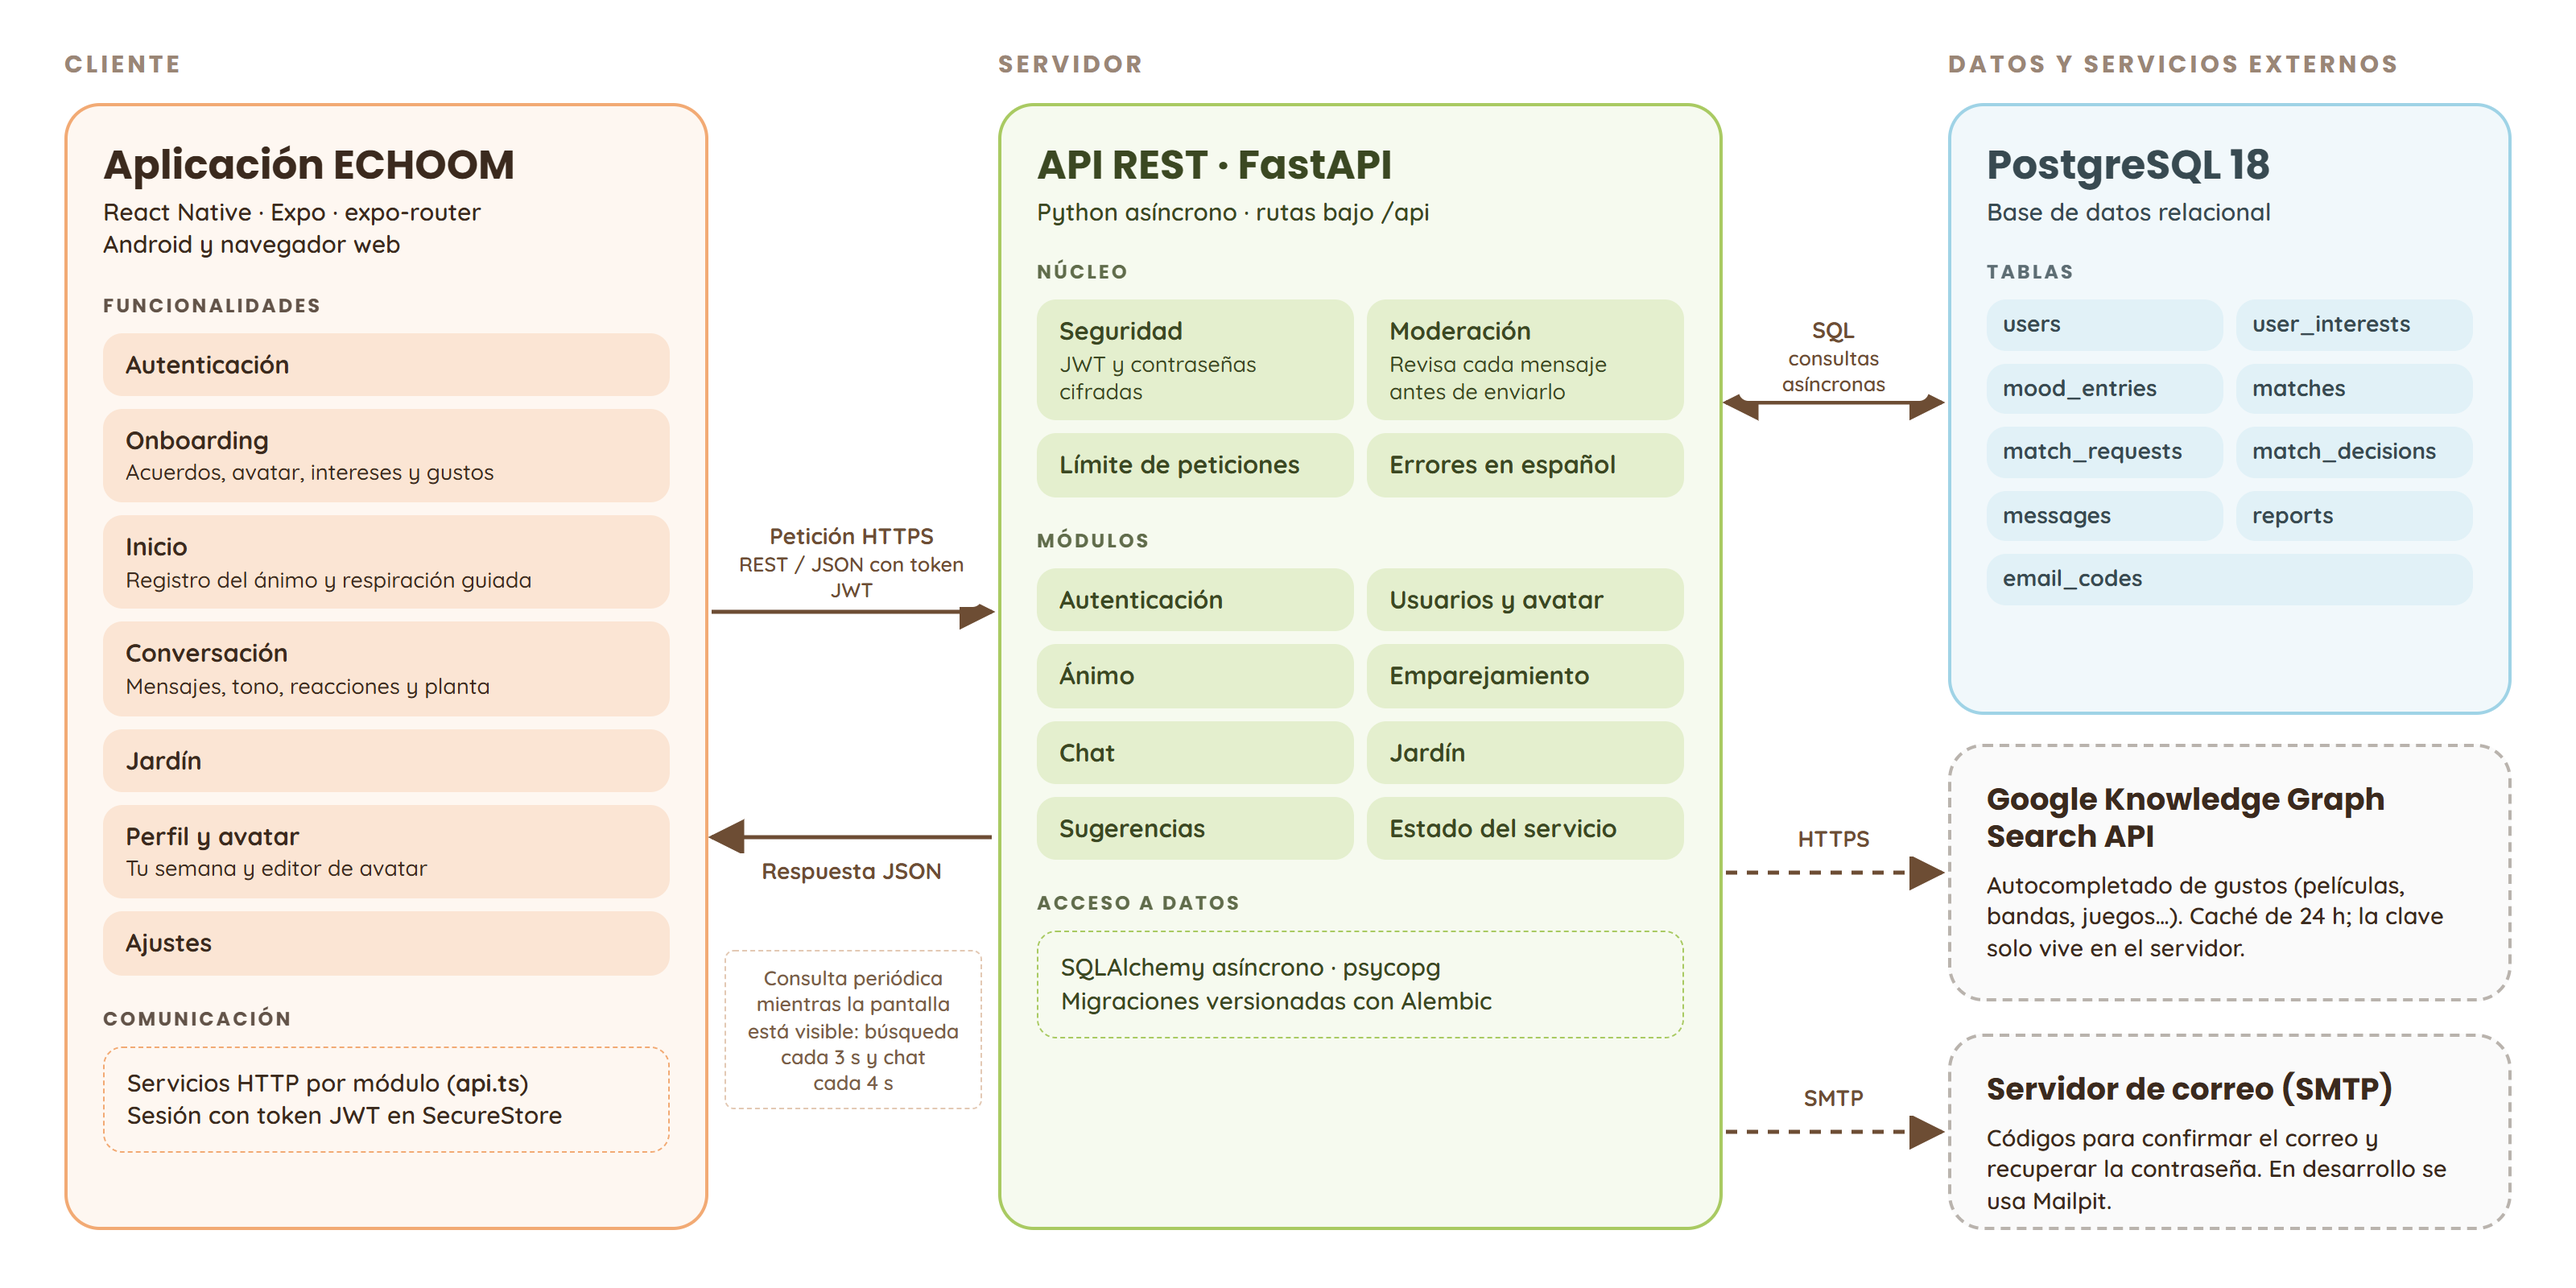
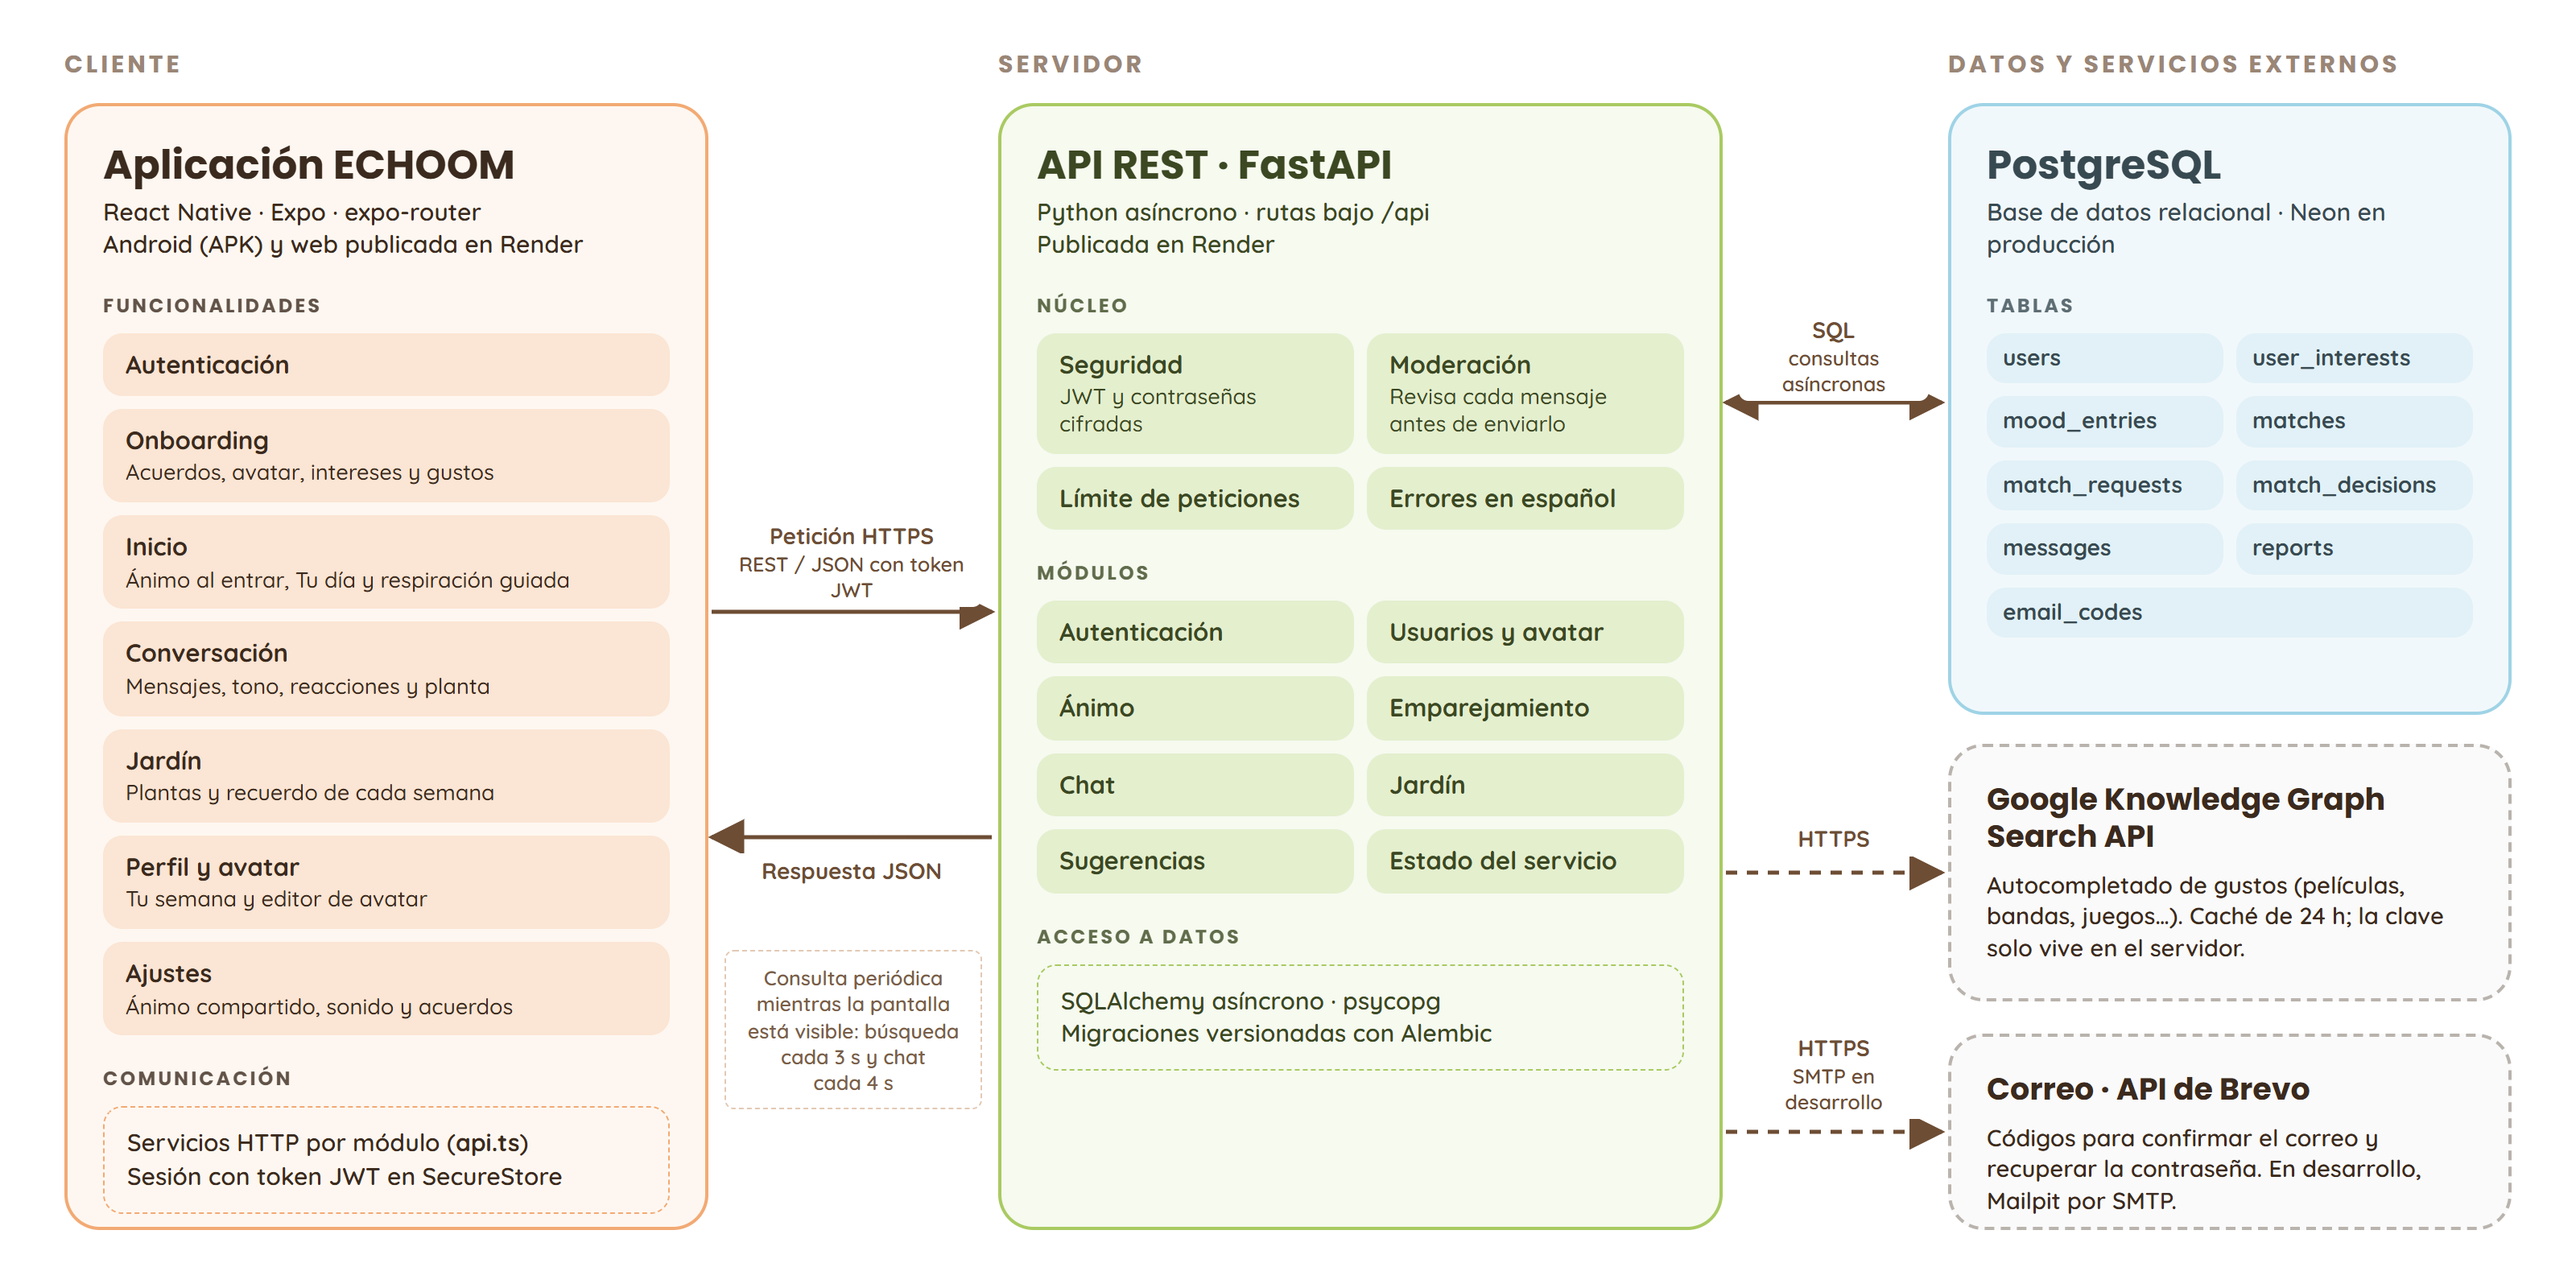
xcz

diff --git a/docs/figures/architecture.html b/docs/figures/architecture.html
@@ -51,16 +51,16 @@
 
   <div class="box client">
     <h2>Aplicación ECHOOM</h2>
-    <div class="sub">React Native · Expo · expo-router<br>Android y navegador web</div>
+    <div class="sub">React Native · Expo · expo-router<br>Android (APK) y web publicada en Render</div>
     <div class="tag">FUNCIONALIDADES</div>
     <div class="grid">
       <div class="chip">Autenticación</div>
       <div class="chip">Onboarding<small>Acuerdos, avatar, intereses y gustos</small></div>
-      <div class="chip">Inicio<small>Registro del ánimo y respiración guiada</small></div>
+      <div class="chip">Inicio<small>Ánimo al entrar, Tu día y respiración guiada</small></div>
       <div class="chip">Conversación<small>Mensajes, tono, reacciones y planta</small></div>
-      <div class="chip">Jardín</div>
+      <div class="chip">Jardín<small>Plantas y recuerdo de cada semana</small></div>
       <div class="chip">Perfil y avatar<small>Tu semana y editor de avatar</small></div>
-      <div class="chip">Ajustes</div>
+      <div class="chip">Ajustes<small>Ánimo compartido, sonido y acuerdos</small></div>
     </div>
     <div class="tag">COMUNICACIÓN</div>
     <div class="band">Servicios HTTP por módulo (<b>api.ts</b>)<br>Sesión con token JWT en SecureStore</div>
@@ -68,7 +68,7 @@
 
   <div class="box server">
     <h2>API REST · FastAPI</h2>
-    <div class="sub">Python asíncrono · rutas bajo /api</div>
+    <div class="sub">Python asíncrono · rutas bajo /api<br>Publicada en Render</div>
     <div class="tag">NÚCLEO</div>
     <div class="grid" style="grid-template-columns:1fr 1fr">
       <div class="chip">Seguridad<small>JWT y contraseñas cifradas</small></div>
@@ -92,8 +92,8 @@
   </div>
 
   <div class="box db">
-    <h2>PostgreSQL 18</h2>
-    <div class="sub">Base de datos relacional</div>
+    <h2>PostgreSQL</h2>
+    <div class="sub">Base de datos relacional · Neon en producción</div>
     <div class="tag">TABLAS</div>
     <div class="grid" style="grid-template-columns:1fr 1fr">
       <div class="chip">users</div>
@@ -114,8 +114,8 @@
   </div>
 
   <div class="box ext" style="top:642px;height:122px">
-    <h2>Servidor de correo (SMTP)</h2>
-    <div class="sub" style="margin-top:8px">Códigos para confirmar el correo y recuperar la contraseña. En desarrollo se usa Mailpit.</div>
+    <h2>Correo · API de Brevo</h2>
+    <div class="sub" style="margin-top:8px">Códigos para confirmar el correo y recuperar la contraseña. En desarrollo, Mailpit por SMTP.</div>
   </div>
 
   <svg width="1600" height="800" style="position:absolute;left:0;top:0;pointer-events:none">
@@ -138,7 +138,7 @@
   <div class="label" style="left:450px;top:590px;width:160px;font-weight:600;font-size:12.5px;color:#7A5E48;border:1.5px dashed #E3C9B4;padding:8px">Consulta periódica mientras la pantalla está visible: búsqueda cada&nbsp;3&nbsp;s y chat cada&nbsp;4&nbsp;s</div>
   <div class="label" style="left:1080px;top:194px;width:118px">SQL<small>consultas asíncronas</small></div>
   <div class="label" style="left:1080px;top:510px;width:118px">HTTPS</div>
-  <div class="label" style="left:1080px;top:671px;width:118px">SMTP</div>
+  <div class="label" style="left:1080px;top:640px;width:118px">HTTPS<small>SMTP en desarrollo</small></div>
 </div>
 </body>
 </html>

diff --git a/docs/decisiones_de_diseno.md b/docs/decisiones_de_diseno.md
@@ -35,7 +35,7 @@ Siguiendo a Vargas Márquez et al. (2021), en la etapa de idear se generan mucha
 | ...sostener un vínculo esporádico en el tiempo? | Decisión privada en el día 7 (con 3 días de gracia). Si ambos quieren seguir, la planta florece y la conversación sigue abierta en "Siguen floreciendo". | POV: "vínculos genuinos". Regla del Pico-Final: se cuida el cierre de la semana con una pantalla propia (Yablonski, 2020). | `decisionCard`, `outcomeScreen`, Jardín. |
 | ...evitar métricas públicas de comparación? | No hay likes, seguidores, contadores ni rankings. El jardín muestra plantas, no números. | Factor 4 del Capítulo 3; Limitaciones del alcance (sin métricas de popularidad). | Todo el sistema. |
 | ...medir el éxito en bienestar y no en uso? | Registro diario del ánimo y una vista privada "Tu semana" en el Perfil. No hay rachas ni notificaciones que empujen al uso. | Feng et al. (2026): la soledad se asocia al uso problemático (r = 0,29), no al tiempo de uso. Monitorear la propia emoción como paso previo a regularla (Gross, 1998). Los datos sirven para la prueba piloto (objetivo específico 4). | Inicio → "¿Cómo te sientes hoy?"; Perfil → "Tu semana". |
-| ...que recibir un mensaje sea un pequeño momento significativo? | Respuestas empáticas al ánimo registrado y, si el ánimo es bajo ("Fatal" o "Mal"), se abre **una pantalla de respiración guiada** antes de seguir: 3 respiraciones lentas (inhalar 4 s y exhalar 6 s, unos 30 s), con un círculo en un tono claro del color de esa emoción que crece al inhalar y se encoge al exhalar, y un halo detrás que respira con más amplitud. La cara de la emoción, en el centro, **respira con la persona**: cierra los ojos, se estira al inhalar y sopla con la boca en "o" al exhalar, mientras **ondas suaves** se alejan del círculo y se desvanecen, como el aire que se suelta (reemplazaron a las bocanadas de aire, que la autora quiso representar de otra forma; también prefirió círculos simples a una flor de pétalos y sin aro que marque el tamaño máximo). Son 3 respiraciones y no 4: alcanza para bajar el ritmo sin que la pausa se sienta larga antes de entrar. Se puede saltar en cualquier momento y repetir. Al final pregunta, de forma opcional, "¿Cómo te sientes ahora?". | Baudon y Jachens (2021): las apps más efectivas incorporan micro-interacciones positivas y técnicas de regulación instantánea. Respirar lento, cerca de 6 veces por minuto, reduce la activación fisiológica y la ansiedad (Zaccaro et al., 2018; Lehrer y Gevirtz, 2014). Hacerlo **antes** de entrar a la conversación es una estrategia de regulación previa a la respuesta (Gross, 1998), para no escribirle a la otra persona desde el malestar. Nombrar la emoción ya ayuda a regularla (Lieberman et al., 2007). El "ahora" opcional deja un dato antes/después para el Capítulo 8. Poder saltarla respeta la autonomía. | `app/breathe.tsx` (`breatheScreen`), se abre desde Inicio; el resumen del ánimo bajo ofrece "Respirar" para repetirla. |
+| ...que recibir un mensaje sea un pequeño momento significativo? | Respuestas empáticas al ánimo registrado y, si el ánimo es bajo ("Fatal" o "Mal"), se abre **una pantalla de respiración guiada** antes de seguir: 3 respiraciones lentas (inhalar 4 s y exhalar 6 s, unos 30 s), con un círculo en un tono claro del color de esa emoción que crece al inhalar y se encoge al exhalar, y un halo detrás que respira con más amplitud. La cara de la emoción, en el centro, **respira con la persona**: cierra los ojos, se estira al inhalar y sopla con la boca en "o" al exhalar, mientras **ondas suaves** se alejan del círculo y se desvanecen, como el aire que se suelta (reemplazaron a las bocanadas de aire, que la autora quiso representar de otra forma; también prefirió círculos simples a una flor de pétalos y sin aro que marque el tamaño máximo). Son 3 respiraciones y no 4: alcanza para bajar el ritmo sin que la pausa se sienta larga antes de entrar. Se puede saltar en cualquier momento y repetir. Al final pregunta, de forma opcional, "¿Cómo te sientes ahora?". | Eisenstadt et al. (2021): las apps más efectivas incorporan micro-interacciones positivas y técnicas de regulación instantánea. Respirar lento, cerca de 6 veces por minuto, reduce la activación fisiológica y la ansiedad (Zaccaro et al., 2018; Lehrer y Gevirtz, 2014). Hacerlo **antes** de entrar a la conversación es una estrategia de regulación previa a la respuesta (Gross, 1998), para no escribirle a la otra persona desde el malestar. Nombrar la emoción ya ayuda a regularla (Lieberman et al., 2007). El "ahora" opcional deja un dato antes/después para el Capítulo 8. Poder saltarla respeta la autonomía. | `app/breathe.tsx` (`breatheScreen`), se abre desde Inicio; el resumen del ánimo bajo ofrece "Respirar" para repetirla. |
 
 ## 2. Ideas descartadas o pospuestas
 
@@ -127,6 +127,6 @@ Estos valores son hipótesis de diseño. Conviene validarlos en la prueba piloto
 - Derks, D., Fischer, A. H., & Bos, A. E. R. (2008). The role of emotion in computer-mediated communication: A review. *Computers in Human Behavior, 24*(3), 766–785. https://doi.org/10.1016/j.chb.2007.04.004
 - Katsaros, M., Yang, K., & Fratamico, L. (2022). Reconsidering tweets: Intervening during tweet creation decreases offensive content. *Proceedings of the International AAAI Conference on Web and Social Media, 16*, 477–487. https://ojs.aaai.org/index.php/ICWSM/article/view/19308 *[verificar páginas]*
 - W3C. (2023). *Web Content Accessibility Guidelines (WCAG) 2.2*. https://www.w3.org/TR/WCAG22/ (criterios 1.4.3 y 1.4.11).
-- Baudon, P., & Jachens, L. (2021). Mobile apps promoting emotion regulation, positive mental health, and well-being in the general population: Systematic review and meta-analysis. *JMIR Mental Health, 8*(11), e31170. https://mental.jmir.org/2021/11/e31170 *[verificar volumen y DOI]*.
+- Eisenstadt, M., Liverpool, S., Infanti, E., Ciuvat, R. M., & Carlsson, C. (2021). Mobile apps that promote emotion regulation, positive mental health, and well-being in the general population: Systematic review and meta-analysis. *JMIR Mental Health, 8*(11), e31170. https://doi.org/10.2196/31170 (ya está en el documento; antes se atribuía por error a "Baudon y Jachens").
 - Social connection as a key target for youth mental health (2025). ScienceDirect, https://www.sciencedirect.com/science/article/pii/S2212657025000054 *[completar autores y revista]*.
 - Google. (s. f.). *Knowledge Graph Search API*. Google for Developers. https://developers.google.com/knowledge-graph (uso gratuito de hasta 100 000 consultas por día por proyecto).

diff --git a/docs/actualizacion_documento_tesis.md b/docs/actualizacion_documento_tesis.md
@@ -86,7 +86,7 @@ A partir de las preguntas **"¿Cómo podríamos...?"** (Figura 5.6) se generaron
 | ídem | ¿Cómo podríamos medir el éxito en bienestar y no en uso? | Registro diario del ánimo y vista privada "Tu semana". Sin rachas ni notificaciones de enganche. | Feng et al. (2026); Gross (1998); insumo para la prueba piloto. |
 | Mensajes positivos sin métricas | ¿Cómo podríamos sugerir mensajes positivos cuando no se sabe qué decir? | Frases de validación mezcladas en las ideas ("Gracias por quedarte en la conversación"). | Pedido explícito del Usuario 1; Clark, Algoe y Green (2018). |
 | ídem | ¿Cómo podríamos evitar métricas de comparación? | Ningún contador público: el jardín muestra plantas, no números. | Factor 4 del Capítulo 3; límites del alcance. |
-| ídem | ¿Cómo podríamos hacer que la app acompañe en un mal día? | Respuestas empáticas al ánimo y, si es bajo, una **pantalla de respiración guiada** (3 respiraciones lentas, unos 30 s, en el color de la emoción) que se abre antes de seguir y se puede saltar. | Baudon y Jachens (2021): regulación emocional instantánea. |
+| ídem | ¿Cómo podríamos hacer que la app acompañe en un mal día? | Respuestas empáticas al ánimo y, si es bajo, una **pantalla de respiración guiada** (3 respiraciones lentas, unos 30 s, en el color de la emoción) que se abre antes de seguir y se puede saltar. | Eisenstadt et al. (2021): regulación emocional instantánea. |
 
 ### 3.3. Ideas descartadas o pospuestas
 
@@ -314,6 +314,6 @@ Al revisar el prototipo, la autora detectó problemas que llevaron a cambios. Es
 - Google. (s. f.). *Knowledge Graph Search API*. Google for Developers. https://developers.google.com/knowledge-graph
 - Katsaros, M., Yang, K., & Fratamico, L. (2022). Reconsidering tweets: Intervening during tweet creation decreases offensive content. *Proceedings of the International AAAI Conference on Web and Social Media, 16*, 477–487. https://ojs.aaai.org/index.php/ICWSM/article/view/19308 *[verificar páginas]*
 - W3C. (2023). *Web Content Accessibility Guidelines (WCAG) 2.2*. https://www.w3.org/TR/WCAG22/
-- Baudon, P., & Jachens, L. (2021). Mobile apps promoting emotion regulation, positive mental health, and well-being in the general population: Systematic review and meta-analysis. *JMIR Mental Health, 8*(11), e31170. https://mental.jmir.org/2021/11/e31170 *[verificar DOI]*
+- Eisenstadt, M., Liverpool, S., Infanti, E., Ciuvat, R. M., & Carlsson, C. (2021). Mobile apps that promote emotion regulation, positive mental health, and well-being in the general population: Systematic review and meta-analysis. *JMIR Mental Health, 8*(11), e31170. https://doi.org/10.2196/31170 (ya está en el documento; antes se atribuía por error a "Baudon y Jachens").
 - *Social connection as a key target for youth mental health* (2025). ScienceDirect. https://www.sciencedirect.com/science/article/pii/S2212657025000054 *[completar autores y revista]*
 - Si se usa en la prueba piloto: Brooke, J. (1996). SUS: A "quick and dirty" usability scale. En P. W. Jordan, B. Thomas, B. A. Weerdmeester y I. L. McClelland (Eds.), *Usability evaluation in industry* (pp. 189–194). Taylor & Francis. *[verificar]*
